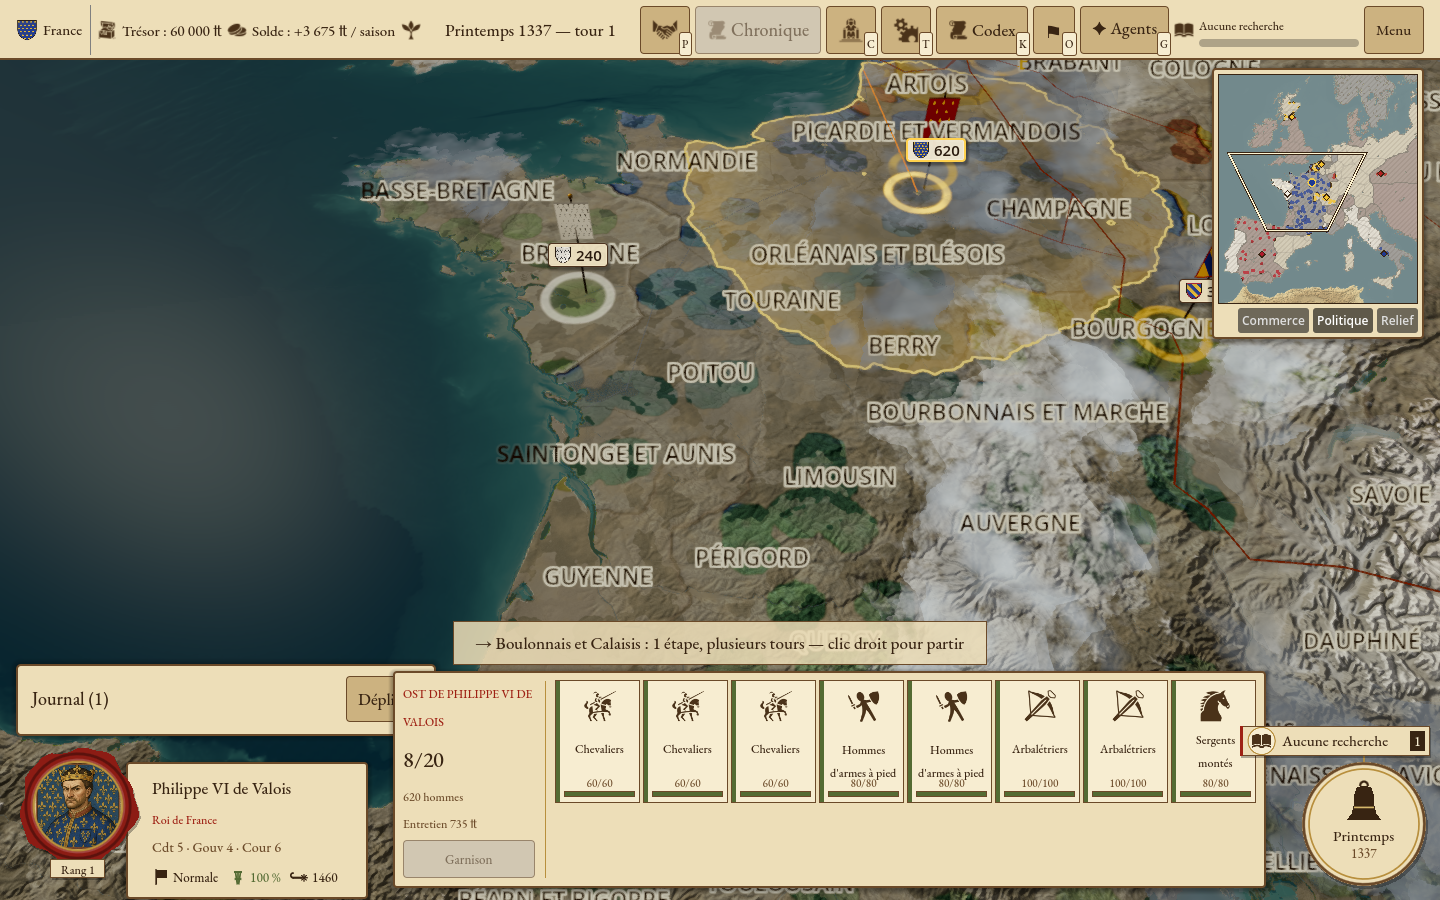
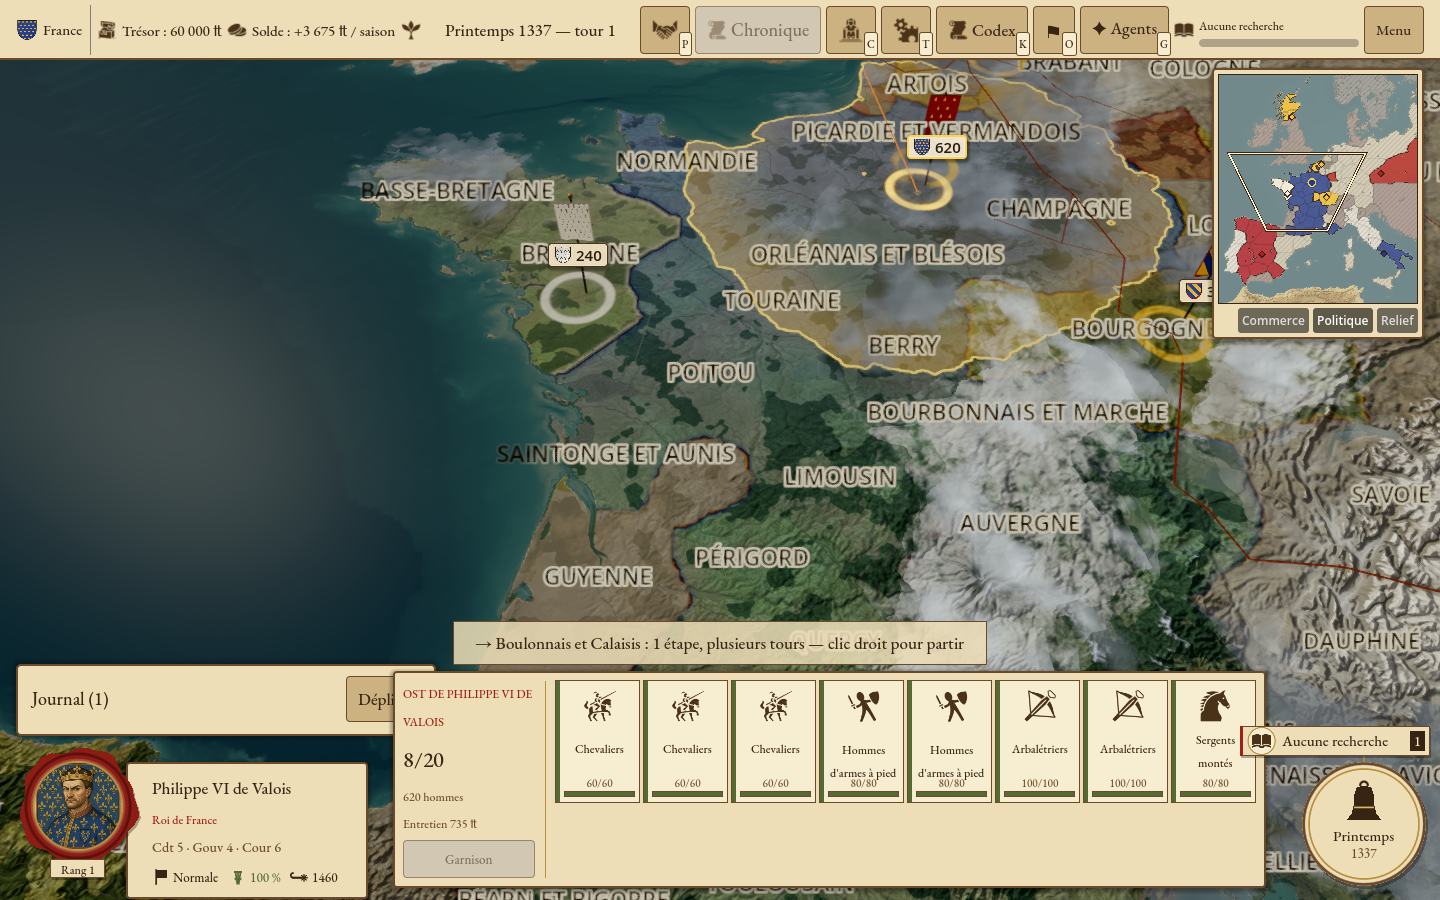
M5a: held provinces seen whole, new capture, docs

diff --git a/docs/wip/m5a-vision.md b/docs/wip/m5a-vision.md
@@ -14,6 +14,7 @@ Spec : `docs/design/2026-09-24-mouvement-libre.md` § 5. Branche : `m5a-vision` 
 ## Décisions
 
 - Point (armée, colonie) : distance exacte aux sources ; texture : disques rastérisés 512² (8 px carte par texel), bord doux de 3 km centré sur le rayon.
+- Correction de l'orchestrateur (comme Total War) : toutes les terres des provinces tenues par la faction ou un allié qui partage sa vue sont vues (`own_provinces_visible: true`, `data/rules/vision.json`, défaut serde vrai) ; test `held_province_land_is_seen_far_from_any_source`. Part de carte vue au tour 1 (France) : 13,4 % des texels (2,8 % avant la correction). Vision ≈ 0,56 ms (meilleur de 20, release).
 - Province visible : ≥ 25 % de ses texels de terre vus, ou colonie vue, ou armée amie dedans, ou agent (C6, pas terrestres conservés).
 - L'IA ne lit pas la vision (elle voit tout, comme avant M5a) : comportement gardé, documenté dans `vision.rs`.
 - Anciennes portées en pas (`controlled_range`, `army_range`, `general_bonus`) ignorées, gardées en option pour compatibilité ; le bonus de chef disparaît.
@@ -22,7 +23,6 @@ Spec : `docs/design/2026-09-24-mouvement-libre.md` § 5. Branche : `m5a-vision` 
 
 ## Limites
 
-- Avec 20 km autour des colonies, une grande partie du royaume du joueur est voilée entre ses villes (règle de la spec) ; à rééquilibrer si le rendu paraît trop « troué ».
 - Les maquettes, forêts et hameaux ne sont pas voilés (seul le sol l'est), comme avant.
 - La mer n'est jamais voilée (id de province 0), comme avant.
 

diff --git a/docs/godot-map.md b/docs/godot-map.md
@@ -718,7 +718,8 @@ colonie et le bouton « Garnison » restent. Avec le mock, la carte garde le com
 
 - Règle (cœur, `sim-campaign/src/vision.rs`) : un point est vu à moins de `vision_army_km` (30) d'une
   armée amie ou de `vision_settlement_km` (20) d'une colonie tenue (`data/movement/rules.json`) ;
-  alliés, vassaux et suzerains partagent leur vue (`data/rules/vision.json`). Une province est
+  alliés, vassaux et suzerains partagent leur vue (`data/rules/vision.json`). Toutes les terres des
+  provinces tenues par la faction ou ses alliés sont vues (`own_provinces_visible`). Une province est
   visible si `province_seen_percent` (25 %) de ses terres sont vues, si elle contient une colonie
   vue ou une armée amie, ou si un agent la surveille. La vue est recalculée, jamais sauvegardée
   (≈ 1 ms par faction en release).
